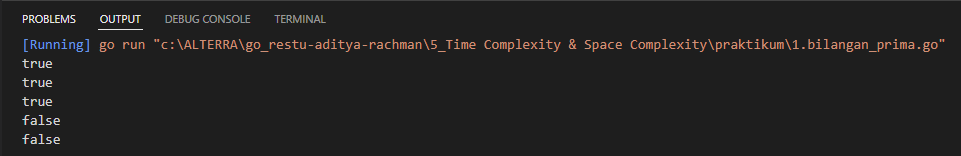
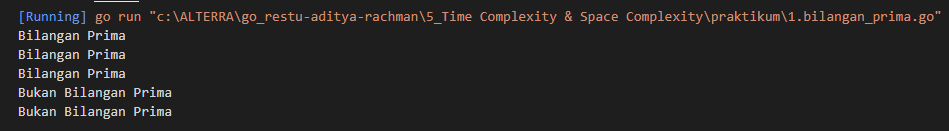
answer section 5

diff --git a/5_Time Complexity & Space Complexity/praktikum/1.bilangan_prima.go b/5_Time Complexity & Space Complexity/praktikum/1.bilangan_prima.go
@@ -2,13 +2,13 @@ package main
 
 import "fmt"
 
-func primeNumber(number int) bool {
+func primeNumber(number int) string {
 	for i := 2; i*i <= number; i++ {
 		if number%i == 0 {
-			return false
+			return "Bukan Bilangan Prima"
 		}
 	}
-	return true
+	return "Bilangan Prima"
 }
 
 func main() {

diff --git a/5_Time Complexity & Space Complexity/praktikum/4.angka_muncul_sekali.go b/5_Time Complexity & Space Complexity/praktikum/4.angka_muncul_sekali.go
@@ -23,4 +23,6 @@ func angkaMunculSekali(angka string) []int {
 
 func main() {
 	fmt.Println(angkaMunculSekali("1234123"))
+	fmt.Println(angkaMunculSekali("76523752"))
+	fmt.Println(angkaMunculSekali("1122"))
 }

diff --git a/5_Time Complexity & Space Complexity/praktikum/5.pair_with_target_sum.go b/5_Time Complexity & Space Complexity/praktikum/5.pair_with_target_sum.go
@@ -18,7 +18,5 @@ func PairSum(arr []int, target int) []int {
 
 func main() {
 	fmt.Println(PairSum([]int{1, 2, 3, 4, 6}, 6))
-	/*
-	   [1, 3]
-	*/
+	fmt.Println(PairSum([]int{2, 5, 9, 11}, 11))
 }

diff --git a/5_Time Complexity & Space Complexity/summary.md b/5_Time Complexity & Space Complexity/summary.md
@@ -1,0 +1,115 @@
+# Resume Time Complexity & Space Complexity
+
+1. Time Complexity memudahkan untuk memperkirakan running time sebuah program. Time Complexity dapat dilihat sebagai jumlah maksimum oprasi primitif yang dapat dijalankan oleh suatu program pada komputer tertentu. sebagian besar time complexity dapat dihitung berdasarkan jumlah statement, looping, dan percabangan.
+
+2. Time Complexity memiliki beberapa jenis dari yang tercepat dan terlambat seperti dibawah ini
+- Constant time - O(n)
+- Linear time - O(n+m)
+- Logaritmic time - O(log n)
+- Quadratic time - O(n^2)
+- factorial time - O(n!) dan exponential time O(2^n)
+
+3. Space Complexity merupakan batasan memori yang dapat ditampung oleh suatu memori. dengan Space Complexity kita dapat memperkirakan jumlah variabel yang dapat kita deklarasikan dalam program. misalkan kita memiliki array sepanjang n maka space complexity yang kita punya dalam notasi Big-O adalah linear time - O(n)
+
+# Task
+## Problem 1 - Bilangan Prima
+Dalam matematika, bilangan prima adalah bilangan asli yang lebih besar dari angka 1, yang faktor pembaginya adalah 1 dan bilangan itu sendiri. 2 dan 3 adalah bilangan prima. 4 bukan bilangan prima karena 4 bisa dibagi 2. Kamu diminta untuk membuat fungsi untuk menentukan bahwa sebuah bilangan termasuk bilangan prima atau tidak.
+
+Buatlah solusi yang lebih optimal, dengan kompleksitas lebih cepat dari O(n) / O(n/2).
+<pre>
+Sample Test Cases
+Input: 1000000007
+Output: Bilangan Prima
+
+Input: 1500450271
+Output: Bilangan Prima
+</pre>
+Berikut solusi yang telah saya kerjakan 
+
+[1.bilangan_prima.go](./praktikum/1.bilangan_prima.go)
+
+Output :
+![problem1](./screenshots/problem1.png)
+
+## Problem 2 - Fast Exponentiation
+Given two integers x and n, write a function to compute x^n. We may assume that x and n are small and overflow doesn’t happen.
+
+Create optimal solution with time complexity more fast that O(n). -> logarithmic
+<pre>
+Sample Test Cases
+Input : x = 2, n = 3
+Output : 8
+
+Input : x = 7, n = 2
+Output : 49
+</pre>
+Berikut solusi yang telah saya buat 
+
+[2.fast_exponentiation.go](./praktikum/2.fast_exponentiation.go)
+
+Output :
+![problem2](./screenshots/problem2.png)
+
+## Problem 3 - Array Merge
+Problem 3 - Array Merge
+Buatlah sebuah program menggabungkan 2 array yang diberikan, dan jangan sampai terdapat nama yang sama di data yang sudah tergabung tadi. (Structure Data , No BruteForce)
+<pre>
+Sample Test Cases
+Input: ['kazuya', 'jin', 'lee'], ['kazuya', 'feng']
+Output: ['kazuya', 'jin', 'lee', 'feng']
+
+Input: ['lee', 'jin'], ['kazuya', 'panda']
+Output: ['lee', 'jin', 'kazuya', 'panda']
+</pre>
+
+Berikut solusi yang telah saya buat 
+
+[3.array_merge.go](./praktikum/3.array_merge.go)
+
+Output: 
+![problem3](./screenshots/problem3.png)
+
+## Problem 4 - Angka Muncul Sekali
+
+Buat program sesuai dengan deskripsi di bawah. Input merupakan variable string berisi kumpulan angka. Output merupakan list / array berisi angka yang hanya muncul 1 kali pada input.
+<pre>
+Sample Test Case
+
+Input: “76523752”
+Output: [6, 3]
+
+Input: “1122”
+Output: []
+</pre>
+
+Berikut solusi yang telah saya buat
+
+[4.angka_muncul_sekali.go](./praktikum/4.angka_muncul_sekali.go)
+
+Output:
+![problem4.go](./screenshots/problem4.png)
+
+## Problem 5 - Pair With Target Sum
+Given an array of sorted numbers and a target sum, find a pair in the array whose sum is equal to the given target.
+
+Write a function to return the indices of the two numbers (i.e. the pair) such that they add up to the given target.
+
+Challenges:
+Solve with linear complexity O(n), not O(n^2) if you can!
+<pre>
+Sample Test Cases
+Input: [1, 2, 3, 4, 6], target=6
+Output: [1, 3]
+Explanation: The numbers at index 1 and 3 add up to 6: 2+4=6
+
+Input: [2, 5, 9, 11], target=11
+Output: [0, 2]
+Explanation: The numbers at index 0 and 2 add up to 11: 2+9=11
+</pre>
+
+Berikut solusi yang telah saya buat 
+
+[5.pair_with_target_sum.go](./praktikum/5.pair_with_target_sum.go)
+
+Output:
+![problem5](./screenshots/problem5.png)
